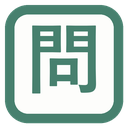
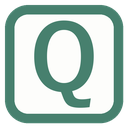
アイコンの文字を「問」から「Q」に変更（将来的な英語圏展開を考慮）

Changed region(s): [[0.25, 0.1562, 0.75, 0.8438]]

diff --git a/scripts/gen_icons.py b/scripts/gen_icons.py
@@ -1,6 +1,7 @@
 # -*- coding: utf-8 -*-
 # SNSQuizLocker のアイコン生成（16/32/48/128px）。
-# デザイン: UIの判子バッジと同じ意匠 — ノート白地の角丸四角＋青磁の枠＋「問」。
+# デザイン: UIの判子バッジと同じ意匠 — ノート白地の角丸四角＋青磁の枠＋「Q」
+# （将来的な英語圏展開を考え、拡張機能アイコンはラテン文字にしている）。
 # 512px で描いて LANCZOS で縮小し、小サイズでも輪郭を保つ。
 # 使い方: python scripts/gen_icons.py  （リポジトリルートで実行。icons/ に出力）
 import os
@@ -12,7 +13,7 @@ os.makedirs(OUT, exist_ok=True)
 
 BG = (253, 253, 251, 255)      # --k-card（ノート白）
 ACCENT = (71, 128, 110, 255)   # --k-accent（青磁）
-CHAR = "問"
+CHAR = "Q"
 FONT = r"C:\Windows\Fonts\YuGothB.ttc"
 
 S = 512  # 描画キャンバス
@@ -29,9 +30,9 @@ d.rounded_rectangle(
     radius=radius, fill=BG, outline=ACCENT, width=border,
 )
 
-# 「問」を中央に（アンカー mm。視覚中心にわずかに上げる）
-font = ImageFont.truetype(FONT, int(S * 0.60))
-d.text((S / 2, S / 2 - int(S * 0.015)), CHAR, font=font, fill=ACCENT, anchor="mm")
+# 「Q」を中央に（アンカー mm。視覚中心にわずかに上げる。ラテン1文字なので大きめ）
+font = ImageFont.truetype(FONT, int(S * 0.70))
+d.text((S / 2, S / 2 - int(S * 0.02)), CHAR, font=font, fill=ACCENT, anchor="mm")
 
 for size in (16, 32, 48, 128):
     img.resize((size, size), Image.LANCZOS).save(os.path.join(OUT, "icon%d.png" % size))
